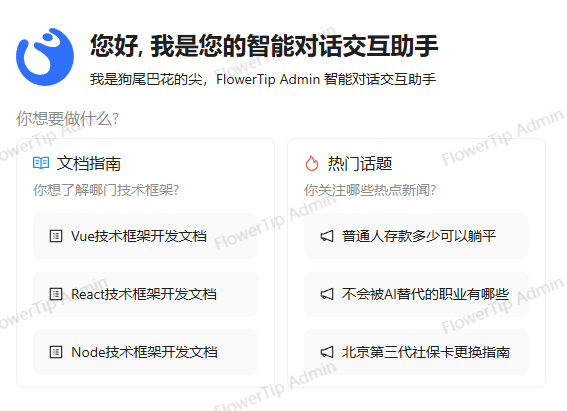
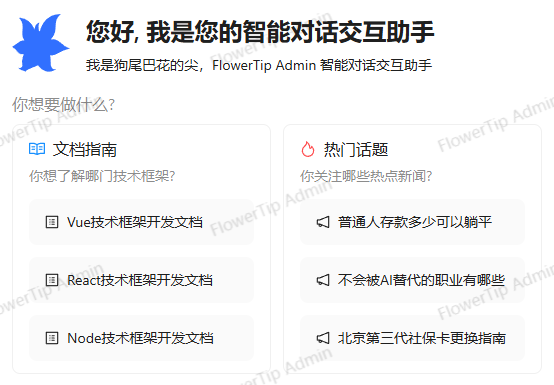
修改网站图标

diff --git a/src/layout/components/chat.tsx b/src/layout/components/chat.tsx
@@ -296,7 +296,7 @@ const Independent: React.FC = () => {
       header: "狗尾巴花的尖",
       avatar: {
         icon: <img
-          src="./favicon.svg"
+          src="https://www.flowertip.site/upload/admin.png"
           draggable={false}
           alt="logo"
         />, style: { background: '#fff' }
@@ -353,7 +353,7 @@ const Independent: React.FC = () => {
     <Space direction="vertical" align="center" size={16} className={styles.placeholder}>
       <Welcome
         variant="borderless"
-        icon="https://www.flowertip.site/pro/favicon.svg"
+        icon="https://www.flowertip.site/upload/admin.png"
         title="您好, 我是您的智能对话交互助手"
         description="我是狗尾巴花的尖，FlowerTip Admin 智能对话交互助手"
         style={{

diff --git a/index.html b/index.html
@@ -2,7 +2,7 @@
 <html lang="en">
   <head>
     <meta charset="UTF-8" />
-    <link rel="icon" type="image/svg+xml" href="/favicon.svg" />
+    <link rel="icon" href="/favicon.ico" />
     <meta name="viewport" content="width=device-width, initial-scale=1.0" />
     <title>FlowerTip Admin</title>
   </head>
